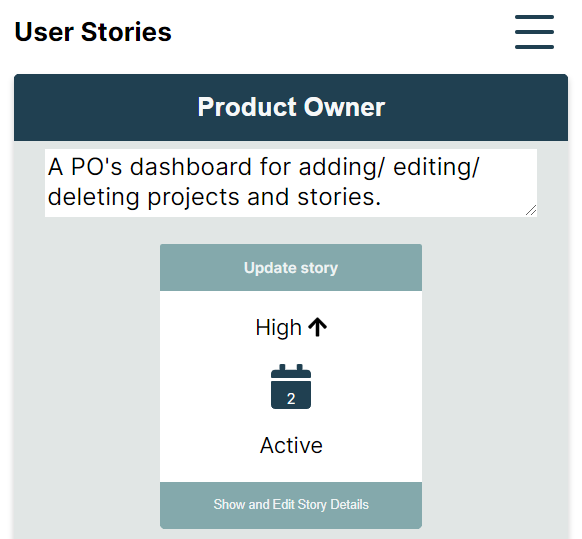
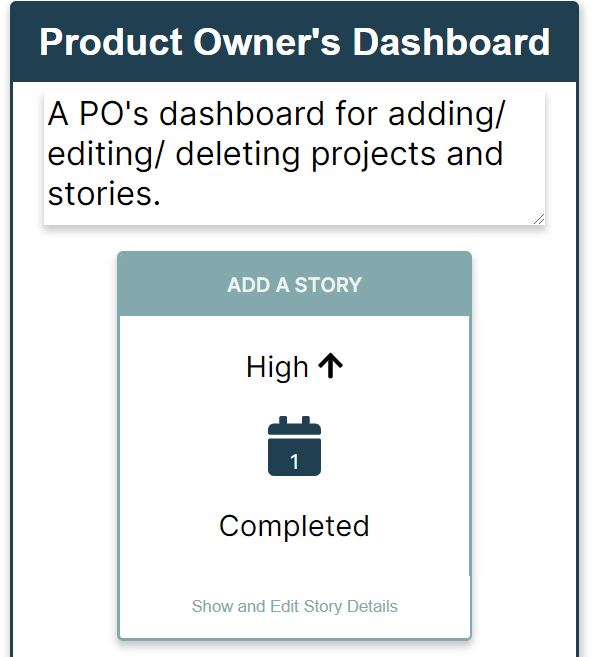
preview site image changes

diff --git a/client/src/components/Home.tsx b/client/src/components/Home.tsx
@@ -24,12 +24,12 @@ const Home =()=>{
                     border: 0;
                     `}
                     src={width < collapseWidth ? 
-                    "https://res.cloudinary.com/mikesnacki/image/upload/v1586101680/preview-project_shz6gb.png" 
+                    "https://res.cloudinary.com/mikesnacki/image/upload/v1586793175/preview-project_dia1mr.png" 
                     : 
-                    "https://res.cloudinary.com/mikesnacki/image/upload/v1586101725/preview-project-wide_rshps2.png"}
+                    "https://res.cloudinary.com/mikesnacki/image/upload/v1586793175/preview-project-wide_tq7vcw.png"}
                     alt="preview for sites">
                 </img>
-                <p>If you're interested in what technology this is built on, its a MERN stack app (with some faily weak TypeScript tbh), using Auth0 for authentitication, deployed on Heroku.</p>
+                <p>If you're interested in what technology this is built on, its a MERN stack app (with some fairly weak TypeScript tbh), using Auth0 for authentitication, deployed on Heroku.</p>
                 <p>Any questions or comments, feel free to email me at mikesnacki@gmail.com</p>
             </div>
         </div>
